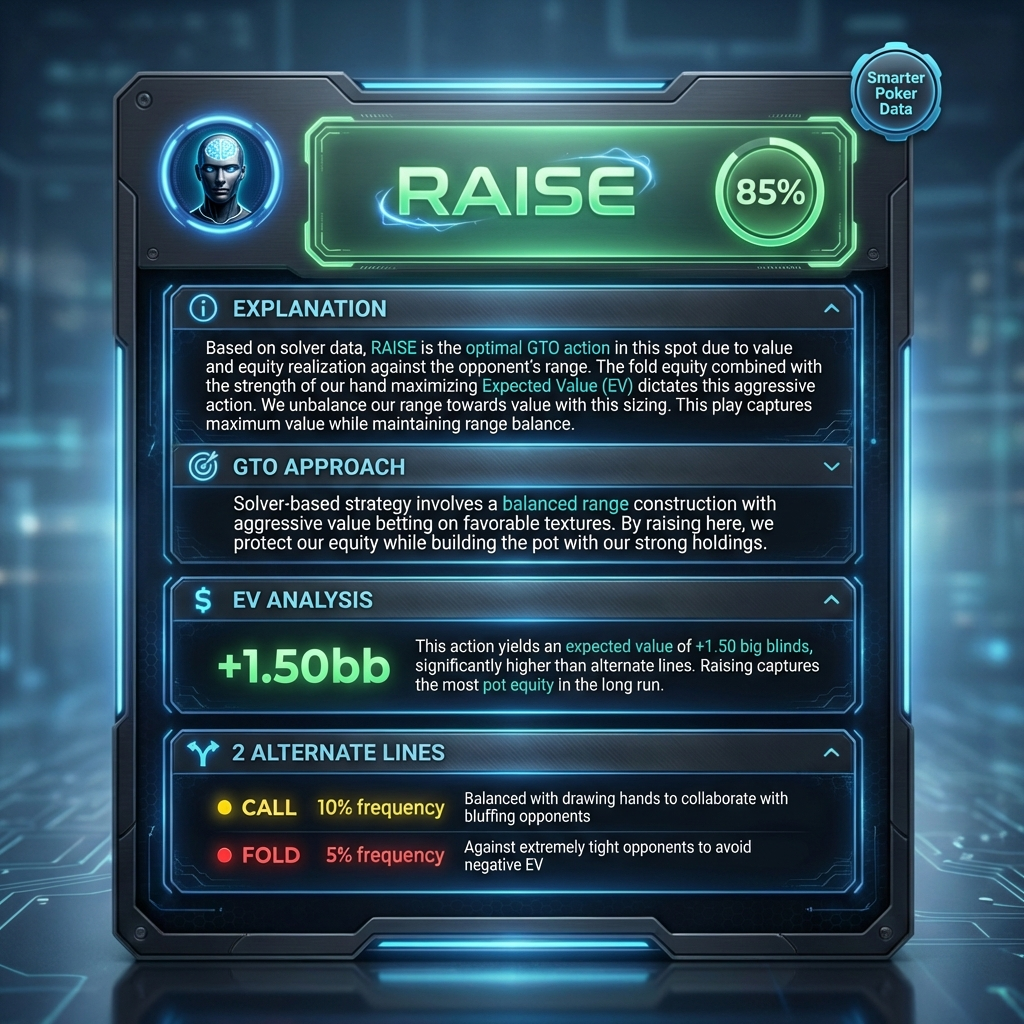
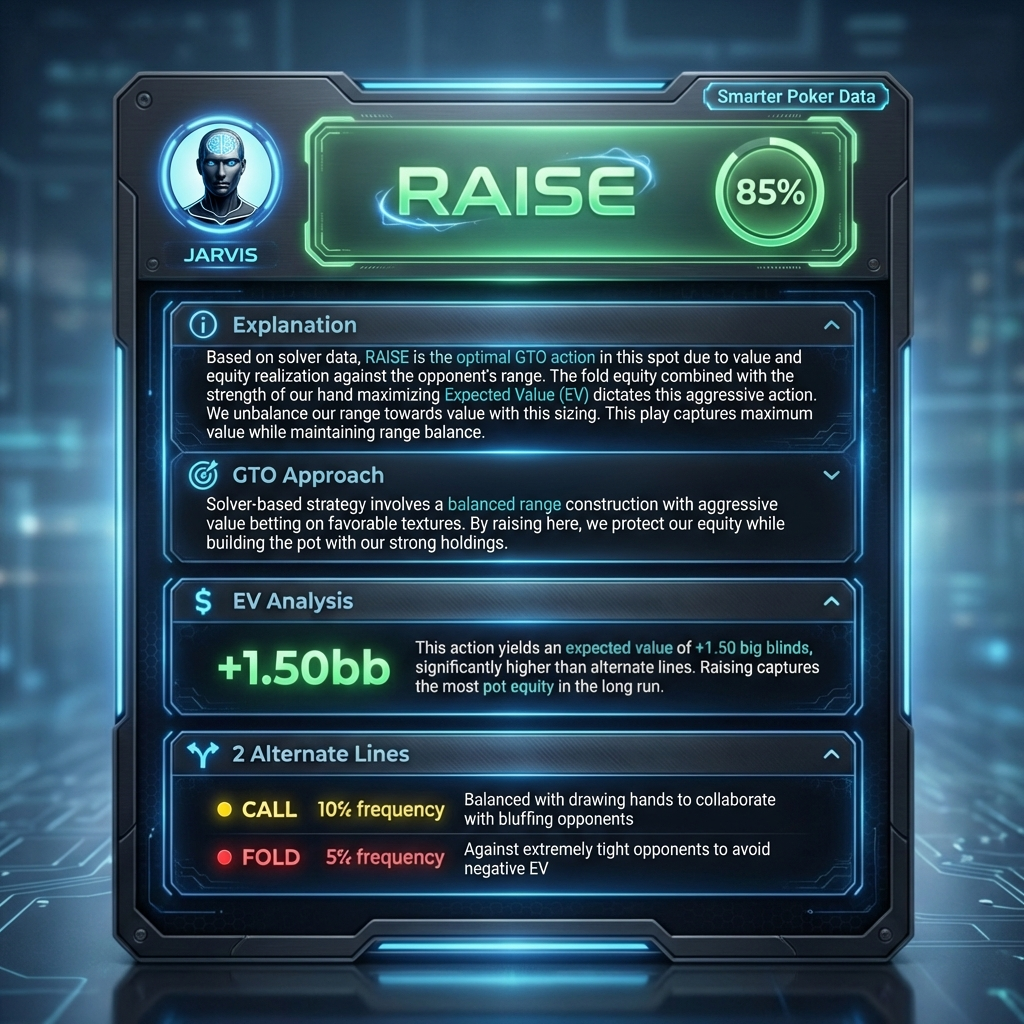
LOCKED GTO Panel template + bootstrap script (Jarvis corner, action centered)

diff --git a/scripts/bootstrap-gto-panels.js b/scripts/bootstrap-gto-panels.js
@@ -1,0 +1,239 @@
+#!/usr/bin/env node
+/**
+ * GTO Panel Bootstrap Script
+ * ═══════════════════════════════════════════════════════════════════════════
+ * Pre-generates GTO analysis panels for common scenarios.
+ * Uses PioSolver data from solved_spots_gold + Grok AI for explanations.
+ * 
+ * Usage: node scripts/bootstrap-gto-panels.js [--count=100] [--dry-run]
+ */
+
+const { createClient } = require('@supabase/supabase-js');
+
+const supabase = createClient(
+    process.env.NEXT_PUBLIC_SUPABASE_URL,
+    process.env.SUPABASE_SERVICE_KEY
+);
+
+// All 169 starting hands
+const HANDS = [
+    // Pairs
+    'AA', 'KK', 'QQ', 'JJ', 'TT', '99', '88', '77', '66', '55', '44', '33', '22',
+    // Suited combos (top)
+    'AKs', 'AQs', 'AJs', 'ATs', 'A9s', 'A8s', 'A7s', 'A6s', 'A5s', 'A4s', 'A3s', 'A2s',
+    'KQs', 'KJs', 'KTs', 'K9s', 'K8s', 'K7s', 'K6s', 'K5s', 'K4s', 'K3s', 'K2s',
+    'QJs', 'QTs', 'Q9s', 'Q8s', 'Q7s', 'Q6s', 'Q5s', 'Q4s', 'Q3s', 'Q2s',
+    'JTs', 'J9s', 'J8s', 'J7s', 'J6s', 'J5s', 'J4s', 'J3s', 'J2s',
+    'T9s', 'T8s', 'T7s', 'T6s', 'T5s', 'T4s', 'T3s', 'T2s',
+    '98s', '97s', '96s', '95s', '94s', '93s', '92s',
+    '87s', '86s', '85s', '84s', '83s', '82s',
+    '76s', '75s', '74s', '73s', '72s',
+    '65s', '64s', '63s', '62s',
+    '54s', '53s', '52s',
+    '43s', '42s',
+    '32s',
+    // Offsuit combos (top)
+    'AKo', 'AQo', 'AJo', 'ATo', 'A9o', 'A8o', 'A7o', 'A6o', 'A5o', 'A4o', 'A3o', 'A2o',
+    'KQo', 'KJo', 'KTo', 'K9o', 'K8o', 'K7o', 'K6o', 'K5o', 'K4o', 'K3o', 'K2o',
+    'QJo', 'QTo', 'Q9o', 'Q8o', 'Q7o', 'Q6o', 'Q5o', 'Q4o', 'Q3o', 'Q2o',
+    'JTo', 'J9o', 'J8o', 'J7o', 'J6o', 'J5o', 'J4o', 'J3o', 'J2o',
+    'T9o', 'T8o', 'T7o', 'T6o', 'T5o', 'T4o', 'T3o', 'T2o',
+    '98o', '97o', '96o', '95o', '94o', '93o', '92o',
+    '87o', '86o', '85o', '84o', '83o', '82o',
+    '76o', '75o', '74o', '73o', '72o',
+    '65o', '64o', '63o', '62o',
+    '54o', '53o', '52o',
+    '43o', '42o',
+    '32o',
+];
+
+// Common positions
+const POSITIONS = ['BTN', 'CO', 'MP', 'UTG', 'SB', 'BB'];
+
+// Common actions
+const ACTIONS = ['RAISE', 'CALL', 'FOLD', '3-BET', 'CHECK', 'BET'];
+
+// Common board textures for flop
+const FLOP_TEXTURES = [
+    'AKQ', 'AK2', 'AQ7', 'AJ8', 'AT9', // High
+    'KQJ', 'KJ7', 'KT5', 'K92', // King high
+    'QJT', 'QJ5', 'Q83', // Queen high
+    'JT9', 'J87', 'J54', // Jack high
+    'T98', 'T76', 'T52', // Ten high
+    '987', '976', '865', '754', '643', // Connected
+    'A72', 'K83', 'Q94', 'J62', 'T73', // Disconnected
+    '222', '333', '444', '555', '666', '777', // Paired
+];
+
+async function bootstrapGTOPanels(options = {}) {
+    const { count = 100, dryRun = false } = options;
+
+    console.log(`\n🚀 GTO Panel Bootstrap Script`);
+    console.log(`═══════════════════════════════════════`);
+    console.log(`Mode: ${dryRun ? 'DRY RUN' : 'LIVE'}`);
+    console.log(`Target: ${count} panels\n`);
+
+    // Get existing PioSolver data
+    const { data: pioScenarios, error } = await supabase
+        .from('solved_spots_gold')
+        .select('scenario_hash, street, stack_depth, strategy_matrix')
+        .limit(500);
+
+    if (error) {
+        console.error('❌ Failed to fetch PioSolver data:', error.message);
+        return;
+    }
+
+    console.log(`📊 Found ${pioScenarios?.length || 0} PioSolver scenarios`);
+
+    // Generate scenarios to bootstrap
+    const scenarios = [];
+
+    // Priority 1: Use actual PioSolver scenarios
+    for (const pio of (pioScenarios || []).slice(0, count / 2)) {
+        if (!pio.strategy_matrix?.actions) continue;
+
+        // Pick a random hand from the strategy matrix
+        const hands = Object.keys(pio.strategy_matrix.frequencies?.[pio.strategy_matrix.actions[0]] || {});
+        if (hands.length === 0) continue;
+
+        const randomHand = hands[Math.floor(Math.random() * hands.length)];
+
+        scenarios.push({
+            source: 'PIO',
+            hand: randomHand,
+            board: extractBoard(pio.scenario_hash),
+            street: pio.street,
+            stackDepth: pio.stack_depth,
+            pioData: pio.strategy_matrix,
+        });
+    }
+
+    // Priority 2: Generate common preflop scenarios
+    const preflopCombos = [];
+    for (const hand of HANDS.slice(0, 50)) { // Top 50 hands
+        for (const position of POSITIONS.slice(0, 3)) { // BTN, CO, MP
+            preflopCombos.push({
+                source: 'GROK',
+                hand,
+                position,
+                street: 'preflop',
+                stackDepth: 100,
+            });
+        }
+    }
+
+    // Shuffle and take remaining
+    const shuffled = preflopCombos.sort(() => Math.random() - 0.5);
+    scenarios.push(...shuffled.slice(0, count - scenarios.length));
+
+    console.log(`\n📝 Scenarios to generate: ${scenarios.length}`);
+    console.log(`   - From PioSolver: ${scenarios.filter(s => s.source === 'PIO').length}`);
+    console.log(`   - From Grok AI: ${scenarios.filter(s => s.source === 'GROK').length}\n`);
+
+    if (dryRun) {
+        console.log('🔍 DRY RUN - Sample scenarios:');
+        scenarios.slice(0, 5).forEach((s, i) => {
+            console.log(`   ${i + 1}. ${s.hand} | ${s.position || 'N/A'} | ${s.street} | ${s.source}`);
+        });
+        return;
+    }
+
+    // Generate panels
+    let success = 0;
+    let failed = 0;
+    const baseUrl = process.env.NEXT_PUBLIC_SITE_URL || 'https://smarter.poker';
+
+    for (let i = 0; i < scenarios.length; i++) {
+        const scenario = scenarios[i];
+
+        try {
+            // Call the GTO analysis API first to get data
+            const analysisResponse = await fetch(`${baseUrl}/api/gto/gto-analysis`, {
+                method: 'POST',
+                headers: { 'Content-Type': 'application/json' },
+                body: JSON.stringify({
+                    hand: scenario.hand,
+                    position: scenario.position || 'BTN',
+                    stackDepth: scenario.stackDepth || 100,
+                    board: scenario.board || '',
+                    street: scenario.street || 'preflop',
+                    gameType: 'cash',
+                }),
+            });
+
+            const analysis = await analysisResponse.json();
+
+            if (!analysis.success) {
+                throw new Error(analysis.error || 'Analysis failed');
+            }
+
+            // Now generate the image
+            const renderResponse = await fetch(`${baseUrl}/api/gto/render-analysis-card`, {
+                method: 'POST',
+                headers: { 'Content-Type': 'application/json' },
+                body: JSON.stringify({
+                    action: analysis.optimalAction,
+                    frequency: Math.round(analysis.frequency * 100),
+                    explanation: analysis.explanation,
+                    gtoApproach: analysis.gtoApproach,
+                    evValue: analysis.evAnalysis?.evDisplay || '+0.00bb',
+                    evDescription: analysis.evAnalysis?.description || '',
+                    alternateLines: analysis.alternateLines || [],
+                }),
+            });
+
+            const result = await renderResponse.json();
+
+            if (result.success) {
+                success++;
+                process.stdout.write(`\r✅ Generated ${success}/${scenarios.length} panels`);
+            } else {
+                failed++;
+                console.log(`\n❌ Failed for ${scenario.hand}: ${result.error}`);
+            }
+
+            // Rate limit
+            await sleep(500);
+
+        } catch (error) {
+            failed++;
+            console.log(`\n❌ Error for ${scenario.hand}: ${error.message}`);
+        }
+    }
+
+    console.log(`\n\n═══════════════════════════════════════`);
+    console.log(`🎉 Bootstrap Complete!`);
+    console.log(`   ✅ Success: ${success}`);
+    console.log(`   ❌ Failed: ${failed}`);
+    console.log(`═══════════════════════════════════════\n`);
+}
+
+function extractBoard(scenarioHash) {
+    if (!scenarioHash) return '';
+    const parts = scenarioHash.split('_');
+    return parts[parts.length - 1] || '';
+}
+
+function sleep(ms) {
+    return new Promise(resolve => setTimeout(resolve, ms));
+}
+
+// Parse CLI args
+const args = process.argv.slice(2);
+const options = {
+    count: 100,
+    dryRun: false,
+};
+
+for (const arg of args) {
+    if (arg.startsWith('--count=')) {
+        options.count = parseInt(arg.split('=')[1], 10);
+    }
+    if (arg === '--dry-run') {
+        options.dryRun = true;
+    }
+}
+
+// Run
+bootstrapGTOPanels(options).catch(console.error);

diff --git a/pages/api/gto/render-analysis-card.js b/pages/api/gto/render-analysis-card.js
@@ -35,14 +35,15 @@ const TEMPLATE = {
         sectionBg: 'rgba(10, 25, 45, 0.9)',
     },
 
-    // Header section (compact - 15% of height)
+    // Header section (compact - 15% of height) - LOCKED LAYOUT
+    // Jarvis TOP-LEFT corner, Action CENTERED, Badge TOP-RIGHT corner
     header: {
         y: 20,
         height: 80,
-        avatar: { x: 30, y: 25, size: 60 },
-        action: { x: 120, y: 45, fontSize: 36, font: 'bold' },
-        frequency: { x: 280, y: 45, fontSize: 20 },
-        badge: { x: 600, y: 35, fontSize: 14 },
+        avatar: { x: 25, y: 20, size: 50 },  // TOP-LEFT corner
+        action: { x: 400, y: 50, fontSize: 36, font: 'bold' },  // CENTERED
+        frequency: { x: 520, y: 50, fontSize: 20 },  // Next to action
+        badge: { x: 620, y: 25, fontSize: 12 },  // TOP-RIGHT corner
     },
 
     // Content sections (85% of height)
